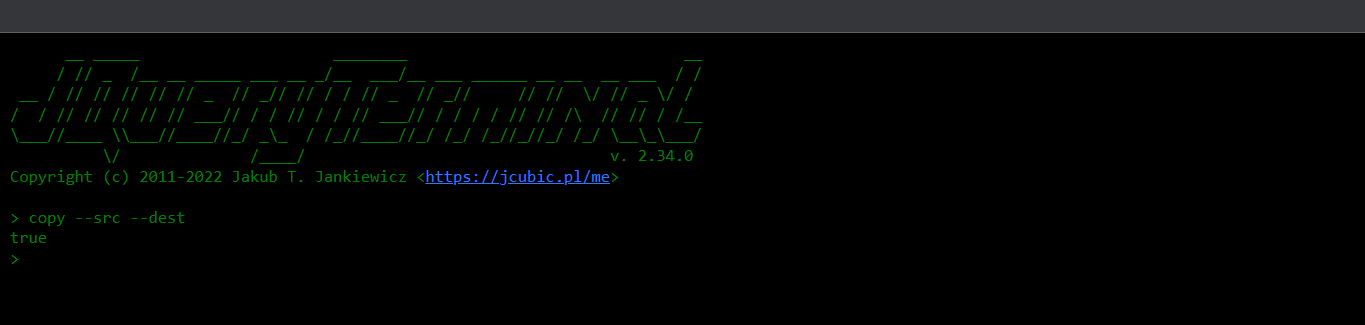
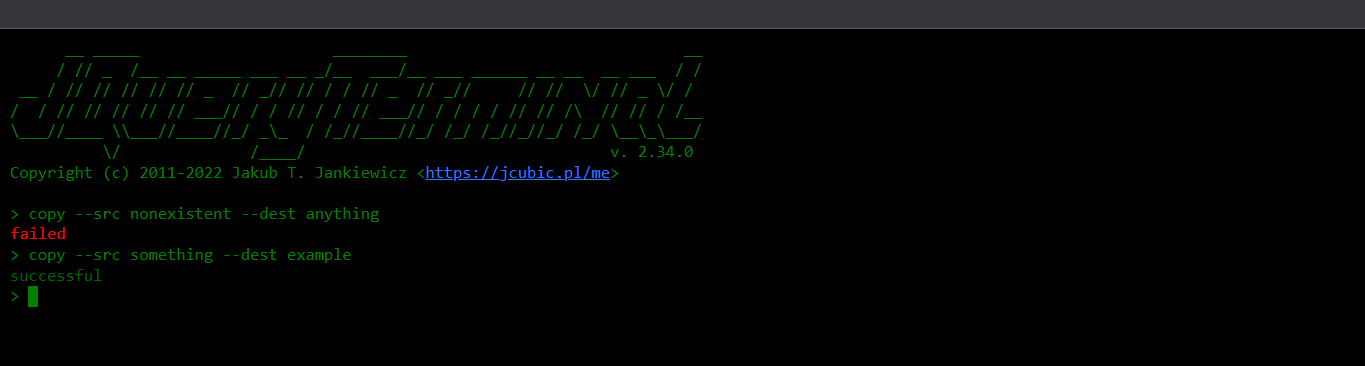
Made the corrections

diff --git a/api_reference.php b/api_reference.php
@@ -452,15 +452,28 @@ $.terminal.parse_options(cmd.args, {boolean: ["foo", "c"]});
 // {_: ["bar", "baz", "quux"], a: true, b: true, c: true, foo: true}
 
 $('body').terminal({
-    copy: function copy(src, dest) {
+    copy: function(...args) {
+        var options = $.terminal.parse_options(args);
+        if (options.dest && options.src) {
+            if (copy(options.src, options.dest)) {
+                this.echo('[[;darkgreen;]successful]');
+            } else {
+                this.error('failed');
+            }
+        } else {
+            this.echo('usage\ncopy --dest &lt;file&gt; --src &lt;file&gt;');
+        }
+    }
+}, {checkArity: false});
+
+function copy(src, dest) {
    if (src === 'nonexistent') {
       return false;
    }
    return true;
    // NOTE: for this dummy example, you can use
    // return src !== 'nonexistent';
-  }
-});</pre>
+  }</pre>
           </li>
 
           <img src="screenshot_005.png"/>
